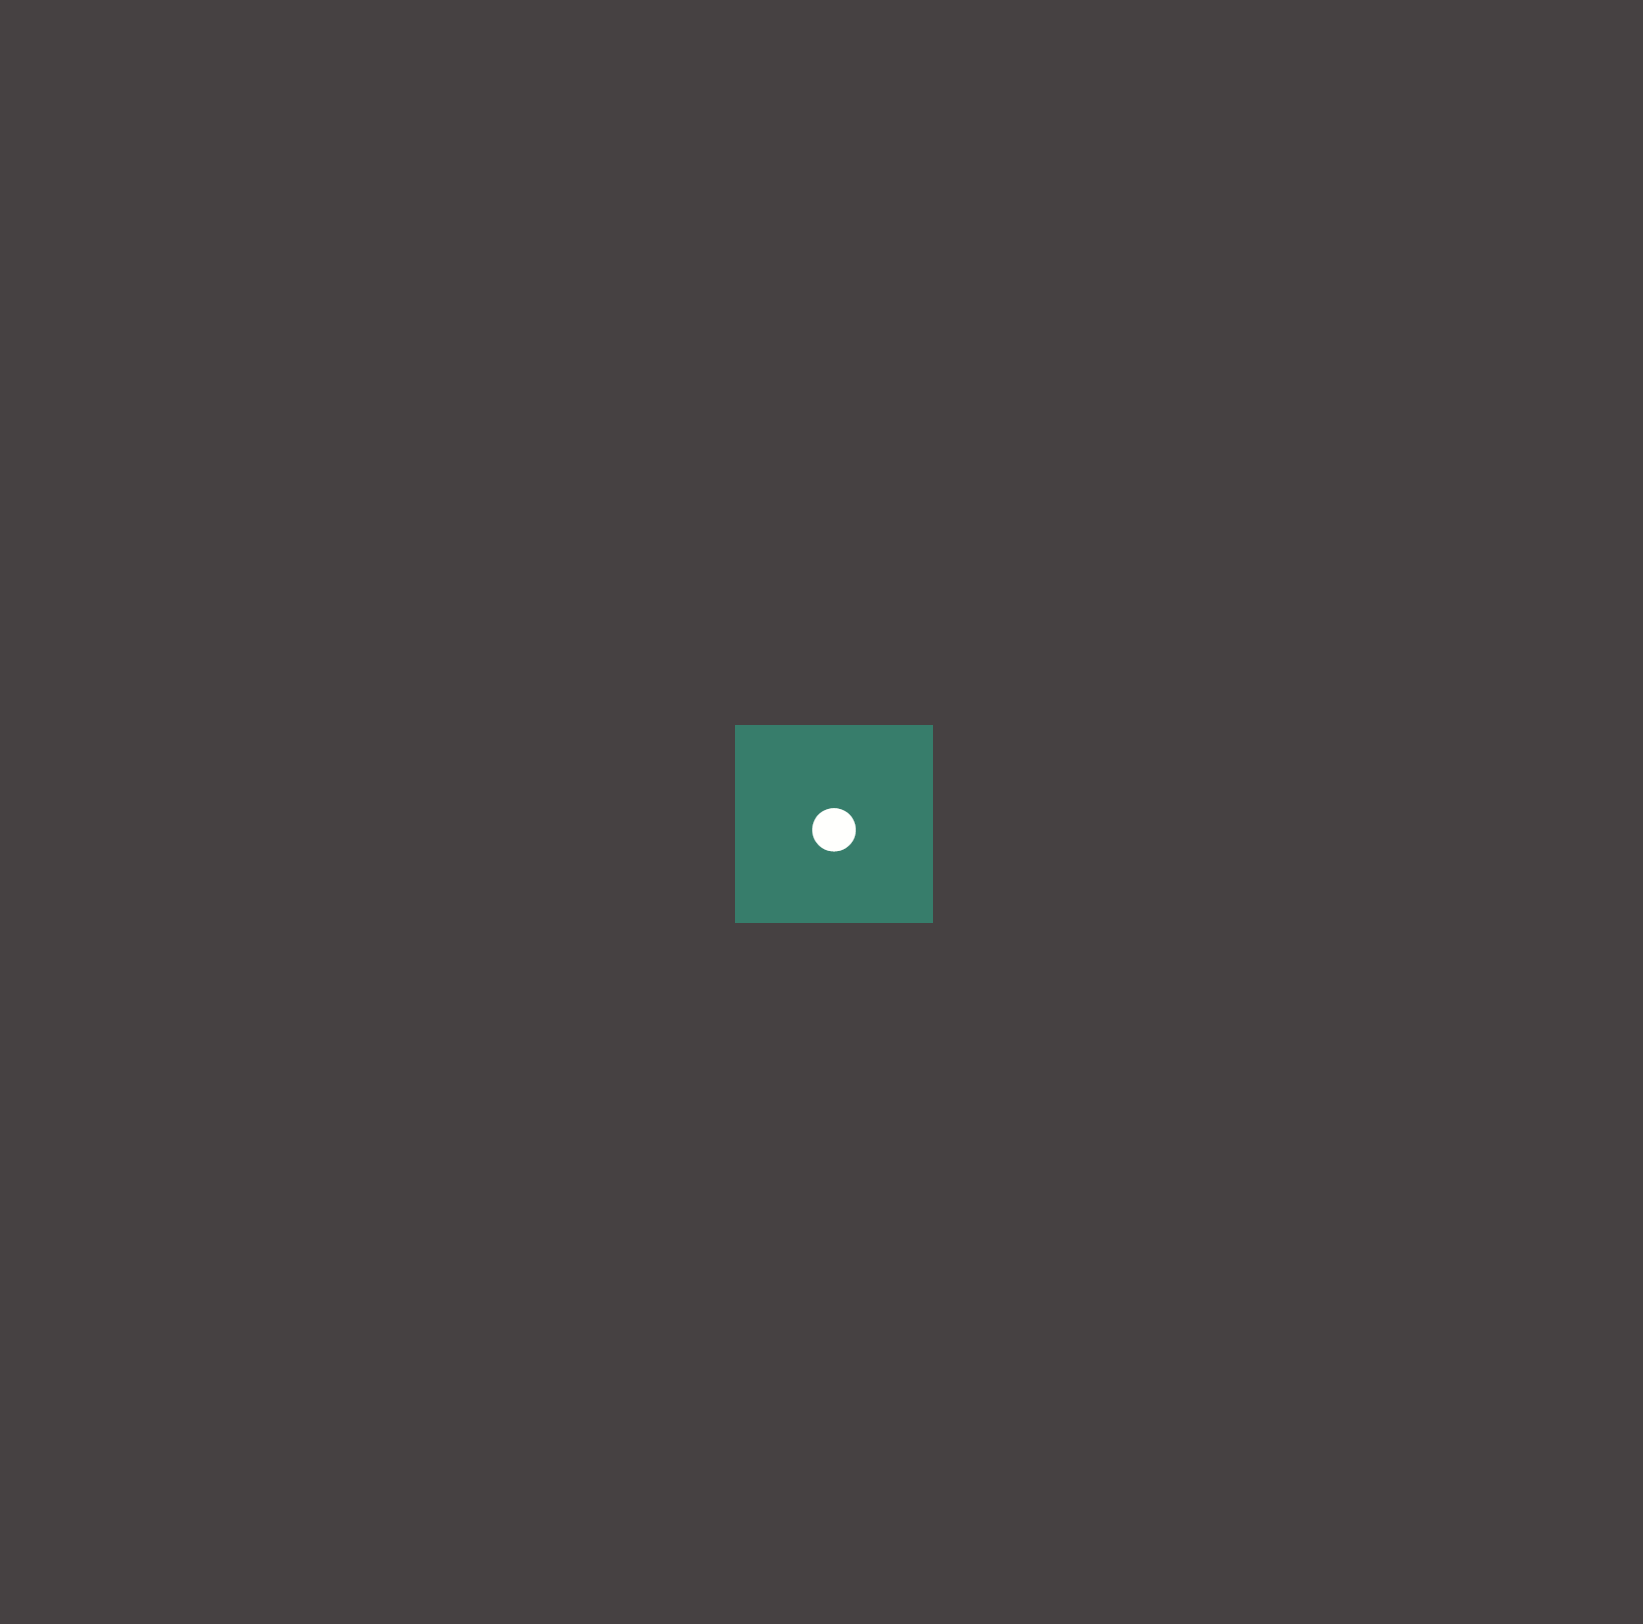
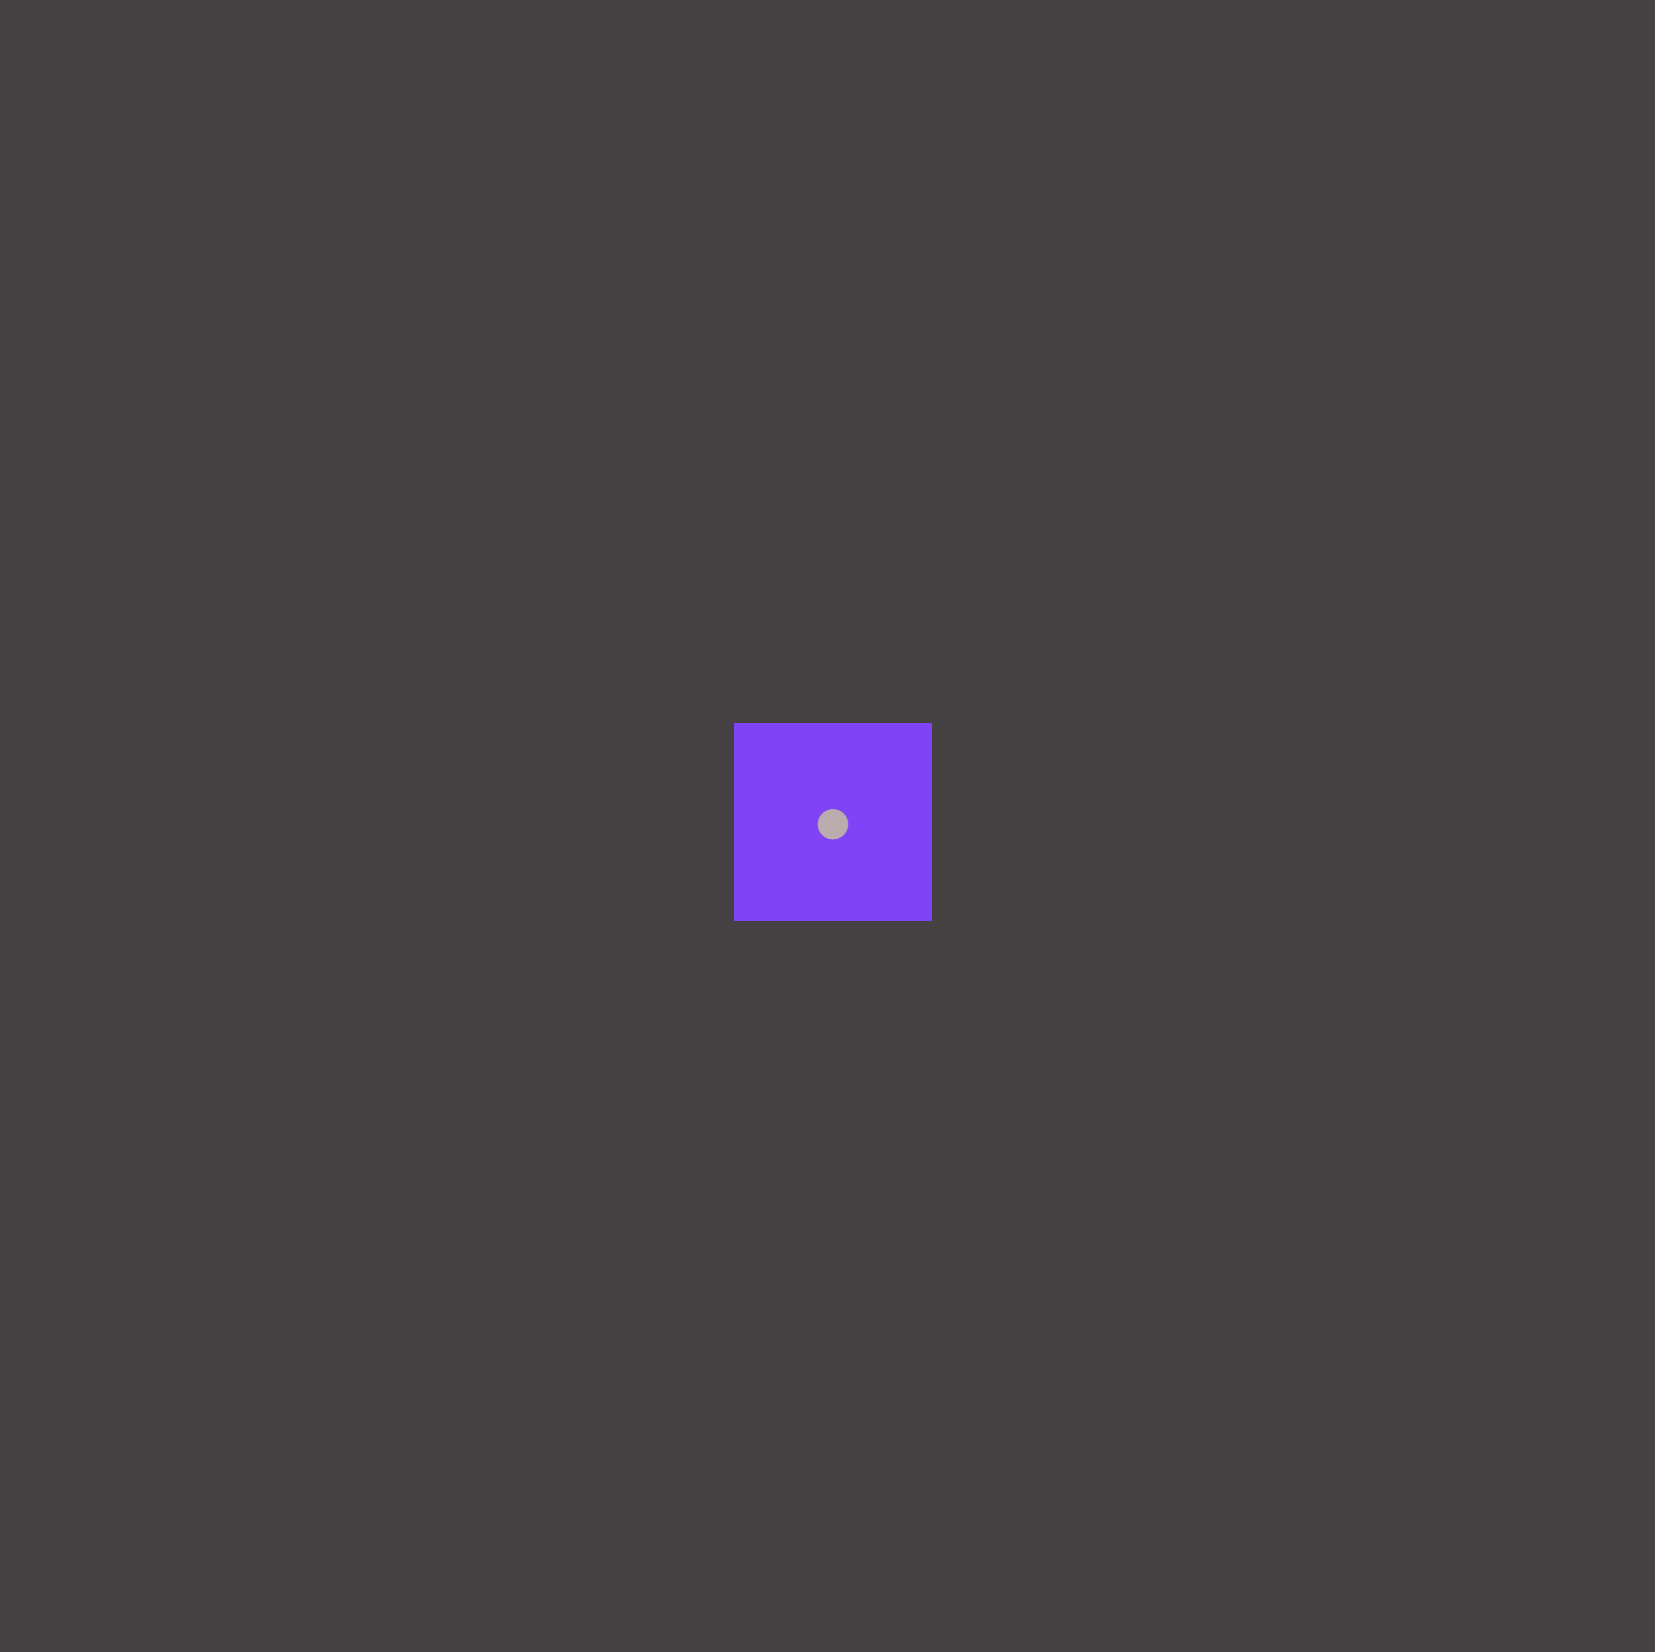
finished thesis

Changed region(s): [[0.4346, 0.431, 0.5898, 0.585]]

diff --git a/scss/_color.scss b/scss/_color.scss
@@ -57,52 +57,45 @@
     //グレー　輝度8.9-8.95
     background-color: rgb(107, 109, 108);
     background-color: rgb(120, 109, 113);
-    //1-5
+    //52-54
     // 赤
-    // background-color: rgb(227, 0, 38);//1-5, 6-10///21-23,24-26
+    background-color: rgb(227, 0, 38);//49-51
     // 緑
-    // background-color: rgb(0, 129, 63);//11-15,27-29
+    background-color: rgb(0, 129, 63);//46-48
     //青　
-    // background-color: rgb(0, 119, 165);//16-20,35-39///30-32,33-35
+    background-color: rgb(0, 119, 165);//43-45
     //黄色
-    // background-color: rgb(133, 111, 0);//40-44,51-55///36-38
+    background-color: rgb(133, 111, 0);//40-42
     //紫
-    // background-color: rgb(182, 0, 229);//56-60,64-68///39-42,43-45
+    background-color: rgb(182, 0, 229);//37-39
     //ピンク
-    // background-color: rgb(164, 92, 85);//162-166,168-173
-    // background-color: rgb(226, 19, 0);//178-182
-    // background-color: rgb(208, 0, 159);//191-195///46-48 ピンクではない
+    background-color: rgb(208, 0, 159);//34-36 ピンクではない
     //黄赤
-    // background-color: rgb(201, 68, 0);//69-73,81-85,///49-51,52-54
+    background-color: rgb(201, 68, 0);//31-33
     //黄緑　
-    // background-color: rgb(91, 123, 0);//86-90,94-98///55-57
+    background-color: rgb(91, 123, 0);//28-30
     //青緑
-    // background-color: rgb(0, 127, 106);//99-103,110-114///61-63,58-60
+    background-color: rgb(0, 127, 106);//25-27
     //青紫　
-    // background-color: rgb(137, 63, 254);//115-119,133-137///64-66
+    background-color: rgb(137, 63, 254);//22-24
     //赤紫
-    // background-color: rgb(222, 0, 100);//138-142,151-155///67-69
+    background-color: rgb(222, 0, 100);//19-21
 
 
     
-    //ログの値が1/2
-    background-color: rgb(71, 65, 66);//196-200,203
-    //輝度1.8ログ値2.5
-    background-color: rgb(58, 54, 55);
-    //輝度2.2ログ3.5
-    background-color: rgb(66, 60, 61);
-    //輝度3.6ログ値5.5
-    background-color: rgb(80, 73, 74);
-    //輝度4.5ログ値6.5s
-    background-color: rgb(89, 82, 83);
+    // //ログの値が1/2
+    // background-color: rgb(71, 65, 66);//16-18
+    // //輝度1.8ログ値2.5
+    // background-color: rgb(58, 54, 55);//13-15
+    // //輝度2.2ログ3.5
+    // background-color: rgb(66, 60, 61);//10-12
+    // //輝度3.6ログ値5.5
+    // background-color: rgb(80, 73, 74);//7-9
+    // //輝度4.5ログ値6.5s
+    // background-color: rgb(89, 82, 83);//4-6
 
-    //白
-    background-color: rgb(190, 172, 174);///75-77
-
-    //ログの値が1/3
-    // background-color: rgb(61, 55, 56);///7-11
-    //ログの値が1/4
-    // background-color: rgb(57, 50, 51);///16-20
+    // //白
+    // background-color: rgb(190, 172, 174);///1-3
 
     height: 100vh;
     width: 100vw;

diff --git a/Components/js/circleTest.js b/Components/js/circleTest.js
@@ -1,0 +1,67 @@
+    //ここで表示する画像を調整
+
+    let colors = [
+        "gray", "yellow", "yellow-green", "green", "blue-green", "blue", "purple-blue", "purple",  "pink","red-purple", "red", "yellow-red"
+    ];
+
+    //表示する画像の数
+    let item_num = 12;
+
+
+    //刺激作成
+    for(let i = 0; i < item_num; i++){
+        let randomColor = colors.splice(0, 1);
+        let stimulate = $(`
+            <span class="color-box ${randomColor[0]}">${i}</span>
+            <button class="select ${i}">${i+1}</button>
+        `);
+        let mosaicTable = $(`<table class="mosaic"></table>`);
+        for(let j = 0; j < 8; j++){
+            let tr = $(`<tr></tr>`);
+            for(let k = 0; k < 8; k++){
+                let td = $(`<td></td>`);
+                tr.append(td);
+            }
+            mosaicTable.append(tr);
+        }
+        $('.circumference').append(stimulate);
+        $('.circumference').append(mosaicTable);
+    }
+    
+    //円周角
+    let degree = 360.0 / item_num;
+    //ラジアンに置き換え
+    let radians = (degree * Math.PI) / 180.0;
+    let radians90 = (90 * Math.PI) / 180.0;
+    //大きい円の半径
+    let radius = $('.circumference').width() / 2;
+    $('.color-box').each((i, elem)=>{
+        let x = Math.cos(radians * i - radians90) * radius + radius;
+        let y = Math.sin(radians * i - radians90) * radius + radius;
+        $(elem).css("left", x);
+        $(elem).css("top", y);
+    })
+    $('.select').each((i, elem)=>{
+        let x = Math.cos(radians * i - radians90) * radius + radius;
+        let y = Math.sin(radians * i - radians90) * radius + radius;
+        $(elem).css("left", x);
+        $(elem).css("top", y);
+    })
+
+
+    //最初に数秒間正解を提示し、時間差で問題を出す
+    function showTargets(){
+        $('.target').css("display", "none");
+        $('.circumference').css("display", "flex");
+        $('.center').css("display", "flex");
+        $('.center').css("border", "none");
+        $('.noTarget').css("display", "flex");
+        $('#find').focus();
+    }
+    showTargets();
+
+
+    
+
+
+

diff --git a/scss/_others.scss b/scss/_others.scss
@@ -1,0 +1,34 @@
+.rank {
+
+
+    padding: 3vh;
+    table {
+        table-layout: fixed;
+        border-collapse: collapse;
+        border: 1px solid black;
+    }
+    tr {
+        display: flex;
+    }
+    th, td {
+        height: 10vh;
+        width: 10vh;
+        display: flex;
+        flex-direction: column;
+        justify-content: center;
+        align-items: center;
+        box-sizing: border-box;
+
+
+        section {
+            height: 5vh;
+            width: 10vh;
+        }
+    }
+    th {
+        border: 1px solid black; /* 列名部分に枠線 */
+    }
+    td:first-child {
+        border: 1px solid black; /* 行名部分に枠線 */
+    }
+}

diff --git a/scss/pages/_circle.scss b/scss/pages/_circle.scss
@@ -149,3 +149,15 @@
         font-size: 48px;
     }
 }
+
+.test {
+    .circumference {
+        display: flex;
+    }
+    .center {
+        display: flex;
+    }
+    .noTarget {
+        display: flex;
+    }
+}

diff --git a/scss/style.scss b/scss/style.scss
@@ -1,5 +1,6 @@
 @import 'common';
 @import 'color';
+@import 'others';
 @import './pages/home';
 @import './pages/distance';
 @import './pages/comparision';

diff --git a/Components/view/comparision.php b/Components/view/comparision.php
@@ -25,6 +25,7 @@ if(!empty($_POST)){
 
         FunctionComparisionDAO::insertAnswer($newAnswer);
     }
+
 }
 
 
